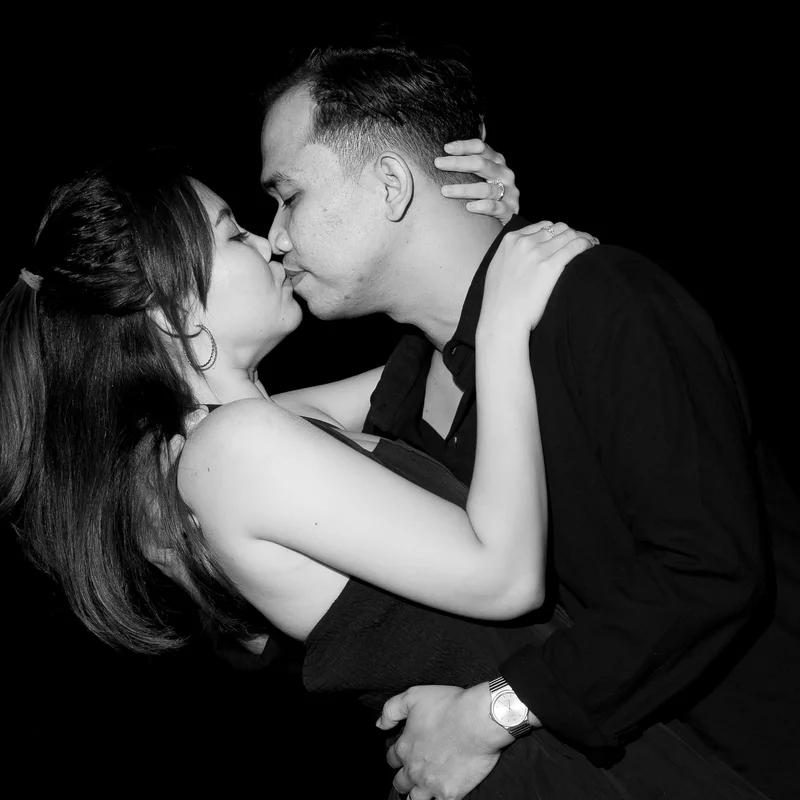
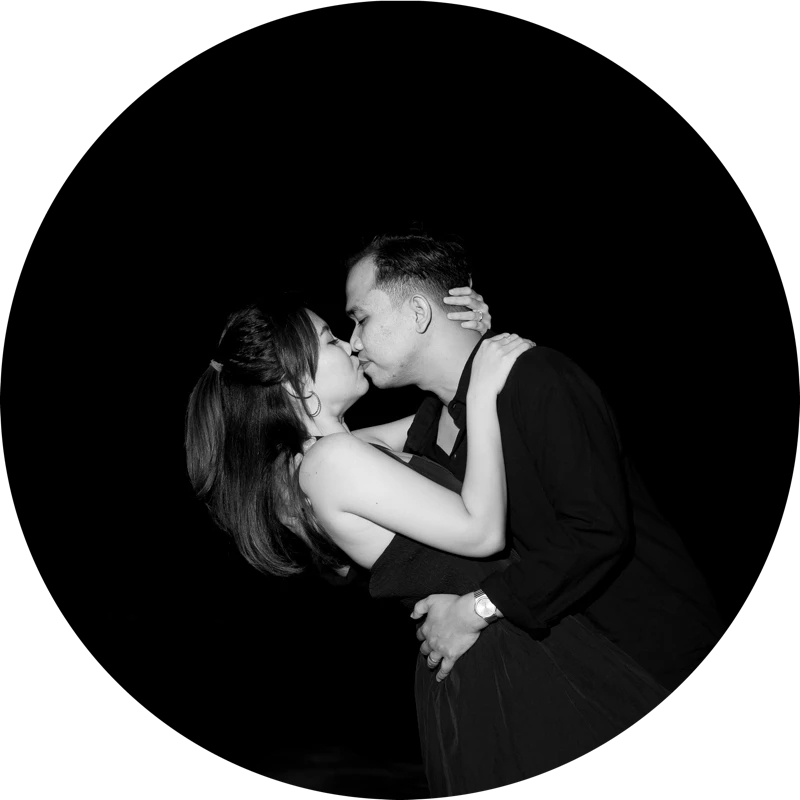
update

diff --git a/src/data/testimonials.js b/src/data/testimonials.js
@@ -1,5 +1,10 @@
 import fiaRenndyPhoto from '@/assets/testimonials/fia-renndy.webp'
 import nengZhengPhoto from '@/assets/testimonials/neng-zheng.webp'
+import rosyidTiaraPhoto from '@/assets/testimonials/rosyid-tiara.webp'
+import aisahGalangPhoto from '@/assets/testimonials/aisah-galang.webp'
+import listaNajibPhoto from '@/assets/testimonials/lista-najib.webp'
+import wikaDzikriPhoto from '@/assets/testimonials/wika-dzikri.webp'
+import fatimaFakhriPhoto from '@/assets/testimonials/fatima-fakhri.webp'
 
 export const testimonials = [
   {
@@ -9,6 +14,10 @@ export const testimonials = [
     name: 'Fia & Renndy',
     role: 'Prewedding',
     photo: fiaRenndyPhoto,
+    // Pre-composed as a circular crop already (transparent corners) — no
+    // extra zoom needed, it's framed correctly as delivered.
+    photoScale: 1,
+    photoOrigin: '50% 50%',
   },
   {
     id: 'testimonial-neng-zheng',
@@ -17,5 +26,67 @@ export const testimonials = [
     name: 'Neng & Zheng',
     role: 'Wedding',
     photo: nengZhengPhoto,
+    // Pre-composed as a circular crop already (transparent corners) — no
+    // extra zoom needed, it's framed correctly as delivered.
+    photoScale: 1,
+    photoOrigin: '50% 50%',
+  },
+  {
+    id: 'testimonial-rosyid-tiara',
+    quote:
+      'Terima kasih banyak LOVIXPHOTO sudah mengabadikan momen pernikahan kami dengan sangat baik. Dari awal sampai hari H, team-nya profesional, ramah, dan membuat kami nyaman. Hasil fotonya juga sangat memuaskan dan berhasil menangkap banyak momen berharga yang akan selalu kami kenang.',
+    name: 'Rosyid & Tiara',
+    role: 'Wedding',
+    photo: rosyidTiaraPhoto,
+    // Pre-composed as a circular crop already (transparent corners) — no
+    // extra zoom needed, it's framed correctly as delivered.
+    photoScale: 1,
+    photoOrigin: '50% 50%',
+  },
+  {
+    id: 'testimonial-aisah-galang',
+    quote:
+      'Overall kami puas banget dengan pelayanan dan hasil dari LOVIXPHOTO. Team-nya ramah, sigap, dan bikin kami nyaman selama proses foto di hari wedding. Hasilnya juga sesuai dengan yang kami harapkan, bahkan banyak momen candid yang berhasil ditangkap dengan indah. Terima kasih banyak LOVIXPHOTO.',
+    name: 'Aisah & Galang',
+    role: 'Wedding',
+    photo: aisahGalangPhoto,
+    // Couple already fills most of the frame — only a mild zoom needed.
+    photoScale: 1.15,
+    photoOrigin: '50% 45%',
+  },
+  {
+    id: 'testimonial-lista-najib',
+    quote:
+      'Memilih LOVIXPHOTO untuk wedding kami benar-benar keputusan yang tepat. Team-nya gercep, komunikatif, dan bikin suasana jadi nyaman. Hasil fotonya juga sangat memuaskan, detail dan momennya dapet banget. Terima kasih sudah memberikan hasil terbaik untuk hari bahagia kami.',
+    name: 'Lista & Najib',
+    role: 'Wedding',
+    photo: listaNajibPhoto,
+    // Dark venue shot with guests and a chandelier crowding the frame —
+    // zoom toward the couple, who sit slightly left of center.
+    photoScale: 1.35,
+    photoOrigin: '42% 48%',
+  },
+  {
+    id: 'testimonial-wika-dzikri',
+    quote:
+      'Puas banget dengan pelayanan LOVIXPHOTO dari awal sampai selesai. Team-nya profesional, ramah, dan sangat membantu selama acara. Hasil fotonya juga bagus banget, setiap momen penting di wedding kami berhasil diabadikan dengan indah. Terima kasih LOVIXPHOTO sudah mengabadikan cerita di hari spesial kami.',
+    name: 'Wika & Dzikri',
+    role: 'Wedding',
+    photo: wikaDzikriPhoto,
+    // Full-body shot dwarfed by a large floral backdrop — zoom in and
+    // shift down toward the couple.
+    photoScale: 1.45,
+    photoOrigin: '50% 62%',
+  },
+  {
+    id: 'testimonial-fatima-fakhri',
+    quote:
+      'Wedding day kami jadi terasa semakin berkesan karena setiap momennya berhasil diabadikan dengan begitu indah oleh LOVIXPHOTO. Mulai dari persiapan, akad, sampai resepsi semuanya terdokumentasikan dengan baik. Team-nya profesional, ramah, dan sangat mengerti momen-momen penting yang harus diabadikan. Terima kasih LOVIXPHOTO sudah menjadi bagian dari cerita bahagia kami.',
+    name: 'Fatima & Fakhri',
+    role: 'Wedding',
+    photo: fatimaFakhriPhoto,
+    // Top-down candid shot, already tightly framed — only a mild zoom.
+    photoScale: 1.1,
+    photoOrigin: '50% 48%',
   },
 ]

diff --git a/src/components/sections/Testimonials/Testimonials.jsx b/src/components/sections/Testimonials/Testimonials.jsx
@@ -54,10 +54,9 @@ function Testimonials() {
           className="mx-auto mb-6 max-w-xl text-center sm:mb-10 lg:mb-14"
         >
           <p className="font-display text-xs font-medium uppercase tracking-[0.4em] text-gold">Kind Words</p>
-          <p className="mt-4 font-display text-3xl italic text-ink sm:mt-6 sm:text-4xl lg:text-5xl">
+          <p className="mt-4 text-lg text-ink sm:mt-6 sm:text-2xl lg:text-3xl">
             Testimonials
           </p>
-          <span className="mx-auto mt-4 block h-px w-12 bg-gold/50 sm:mt-6" />
         </motion.div>
 
         <div className="mx-auto flex max-w-2xl flex-col items-center">
@@ -94,21 +93,27 @@ function Testimonials() {
                 className="w-full px-9 text-center sm:px-12"
                 style={{ cursor: count > 1 ? 'grab' : undefined }}
               >
+                {active.photo && (
+                  <div className="mx-auto mb-8 h-14 w-14 overflow-hidden rounded-full ring-1 ring-ink/10 sm:mb-10 sm:h-20 sm:w-20 lg:h-24 lg:w-24">
+                    <img
+                      src={active.photo}
+                      alt={active.name}
+                      className="h-full w-full object-cover"
+                      style={{
+                        transform: `scale(${active.photoScale ?? 1.18})`,
+                        transformOrigin: active.photoOrigin ?? '50% 50%',
+                      }}
+                      draggable={false}
+                    />
+                  </div>
+                )}
                 <p className="text-sm leading-relaxed text-ink sm:text-xl lg:text-2xl">
                   &ldquo;{active.quote}&rdquo;
                 </p>
-                {active.photo && (
-                  <img
-                    src={active.photo}
-                    alt={active.name}
-                    className="mx-auto mt-8 mb-4 h-14 w-14 rounded-full object-cover ring-1 ring-ink/10 sm:mt-10 sm:mb-5 sm:h-20 sm:w-20 lg:h-24 lg:w-24"
-                    draggable={false}
-                  />
-                )}
-                <p className="text-xs font-medium uppercase tracking-[0.25em] text-ink/60">
+                <p className="mt-5 text-xs font-medium uppercase tracking-[0.25em] text-ink/60 sm:mt-8">
                   {active.name}
                 </p>
-                <p className="mt-1 text-[0.6rem] uppercase tracking-[0.2em] text-ink/70 sm:text-[0.65rem]">
+                <p className="mt-1 text-[0.6rem] uppercase tracking-[0.2em] text-ink/40 sm:text-[0.65rem]">
                   {active.role}
                 </p>
               </motion.div>
